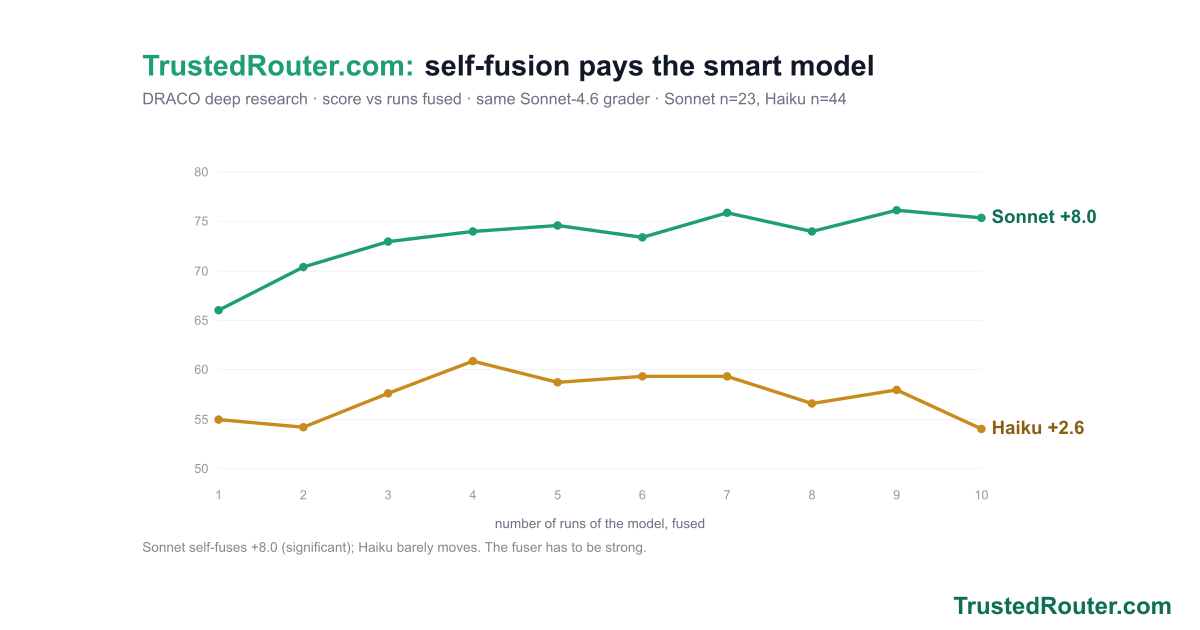
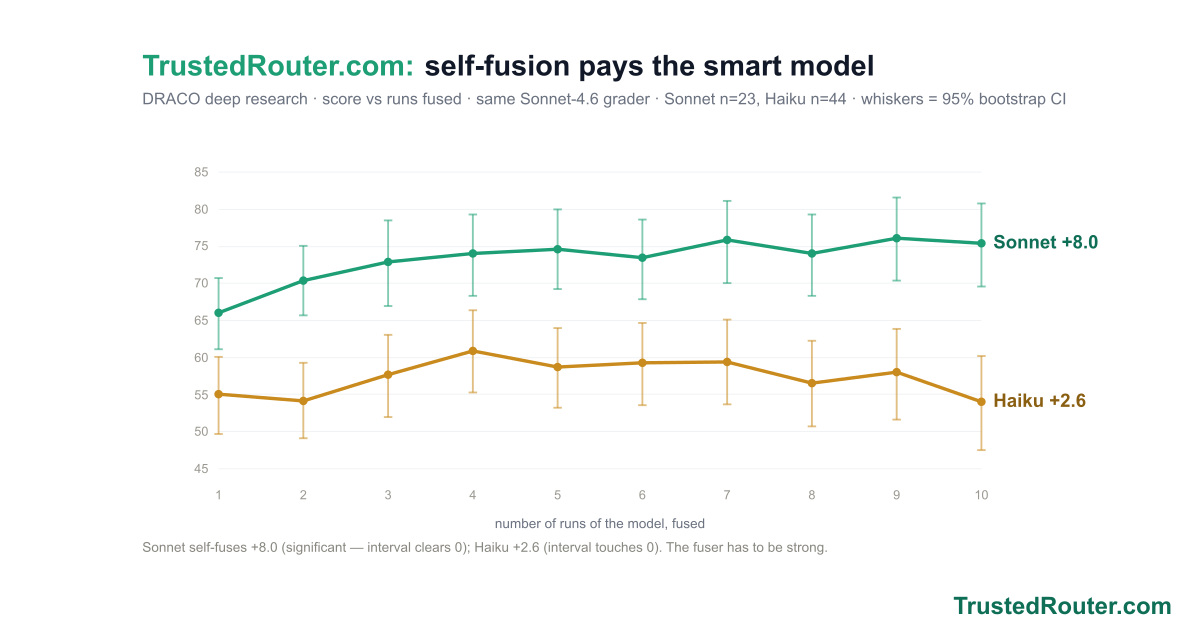
blog(self-fusion): add 95% bootstrap CI whiskers to the chart
Error bars on every point: Sonnet's interval clears 0 (significant +8.0), Haiku's
touches 0 (+2.6). Regenerated OG card. (Always show error bars.)

diff --git a/src/trusted_router/blog.py b/src/trusted_router/blog.py
@@ -39,7 +39,7 @@ BLOG_POSTS: tuple[BlogPost, ...] = (
         source_label="TrustedRouter-Fusion-Draco on GitHub",
         source_url="https://github.com/Lore-Hex/TrustedRouter-Fusion-Draco",
         body_html="""
-<svg xmlns="http://www.w3.org/2000/svg" viewBox="0 0 1200 630" width="100%" style="height:auto" font-family="Inter,Arial,sans-serif"><rect width="1200" height="630" fill="#ffffff"/><text x="60" y="56" font-size="34" font-weight="700"><tspan fill="#1d9e75">TrustedRouter.com:</tspan><tspan fill="#111827" dx="12">self-fusion pays the smart model</tspan></text><text x="60" y="90" font-size="19" fill="#6b7280">DRACO deep research · score vs runs fused · same Sonnet-4.6 grader · Sonnet n=23, Haiku n=44</text><line x1="150" y1="520" x2="1050" y2="520" stroke="#eef0f2"/><text x="138" y="525" font-size="15" text-anchor="end" fill="#9a9890">50</text><line x1="150" y1="462" x2="1050" y2="462" stroke="#eef0f2"/><text x="138" y="467" font-size="15" text-anchor="end" fill="#9a9890">55</text><line x1="150" y1="403" x2="1050" y2="403" stroke="#eef0f2"/><text x="138" y="408" font-size="15" text-anchor="end" fill="#9a9890">60</text><line x1="150" y1="345" x2="1050" y2="345" stroke="#eef0f2"/><text x="138" y="350" font-size="15" text-anchor="end" fill="#9a9890">65</text><line x1="150" y1="287" x2="1050" y2="287" stroke="#eef0f2"/><text x="138" y="292" font-size="15" text-anchor="end" fill="#9a9890">70</text><line x1="150" y1="228" x2="1050" y2="228" stroke="#eef0f2"/><text x="138" y="233" font-size="15" text-anchor="end" fill="#9a9890">75</text><line x1="150" y1="170" x2="1050" y2="170" stroke="#eef0f2"/><text x="138" y="175" font-size="15" text-anchor="end" fill="#9a9890">80</text><text x="150" y="556" font-size="15" text-anchor="middle" fill="#9a9890">1</text><text x="250" y="556" font-size="15" text-anchor="middle" fill="#9a9890">2</text><text x="350" y="556" font-size="15" text-anchor="middle" fill="#9a9890">3</text><text x="450" y="556" font-size="15" text-anchor="middle" fill="#9a9890">4</text><text x="550" y="556" font-size="15" text-anchor="middle" fill="#9a9890">5</text><text x="650" y="556" font-size="15" text-anchor="middle" fill="#9a9890">6</text><text x="750" y="556" font-size="15" text-anchor="middle" fill="#9a9890">7</text><text x="850" y="556" font-size="15" text-anchor="middle" fill="#9a9890">8</text><text x="950" y="556" font-size="15" text-anchor="middle" fill="#9a9890">9</text><text x="1050" y="556" font-size="15" text-anchor="middle" fill="#9a9890">10</text><text x="600" y="590" font-size="16" text-anchor="middle" fill="#6b7280">number of runs of the model, fused</text><polyline points="150,462 250,471 350,431 450,393 550,418 650,411 750,411 850,443 950,427 1050,473" fill="none" stroke="#c98a1e" stroke-width="4"/><circle cx="150" cy="462" r="5" fill="#c98a1e"/><circle cx="250" cy="471" r="5" fill="#c98a1e"/><circle cx="350" cy="431" r="5" fill="#c98a1e"/><circle cx="450" cy="393" r="5" fill="#c98a1e"/><circle cx="550" cy="418" r="5" fill="#c98a1e"/><circle cx="650" cy="411" r="5" fill="#c98a1e"/><circle cx="750" cy="411" r="5" fill="#c98a1e"/><circle cx="850" cy="443" r="5" fill="#c98a1e"/><circle cx="950" cy="427" r="5" fill="#c98a1e"/><circle cx="1050" cy="473" r="5" fill="#c98a1e"/><text x="1062" y="479" font-size="22" font-weight="700" fill="#8a5f12">Haiku +2.6</text><polyline points="150,333 250,282 350,252 450,240 550,233 650,247 750,218 850,240 950,215 1050,224" fill="none" stroke="#1d9e75" stroke-width="4"/><circle cx="150" cy="333" r="5" fill="#1d9e75"/><circle cx="250" cy="282" r="5" fill="#1d9e75"/><circle cx="350" cy="252" r="5" fill="#1d9e75"/><circle cx="450" cy="240" r="5" fill="#1d9e75"/><circle cx="550" cy="233" r="5" fill="#1d9e75"/><circle cx="650" cy="247" r="5" fill="#1d9e75"/><circle cx="750" cy="218" r="5" fill="#1d9e75"/><circle cx="850" cy="240" r="5" fill="#1d9e75"/><circle cx="950" cy="215" r="5" fill="#1d9e75"/><circle cx="1050" cy="224" r="5" fill="#1d9e75"/><text x="1062" y="230" font-size="22" font-weight="700" fill="#0f6e56">Sonnet +8.0</text><text x="60" y="618" font-size="16" fill="#888780">Sonnet self-fuses +8.0 (significant); Haiku barely moves. The fuser has to be strong.</text><text x="1188" y="621" text-anchor="end" font-size="21" font-weight="700" fill="#0f6e56">TrustedRouter.com</text></svg>
+<svg xmlns="http://www.w3.org/2000/svg" viewBox="0 0 1200 630" width="100%" style="height:auto" font-family="Inter,Arial,sans-serif"><rect width="1200" height="630" fill="#ffffff"/><text x="60" y="56" font-size="34" font-weight="700"><tspan fill="#1d9e75">TrustedRouter.com:</tspan><tspan fill="#111827" dx="12">self-fusion pays the smart model</tspan></text><text x="60" y="90" font-size="19" fill="#6b7280">DRACO deep research · score vs runs fused · same Sonnet-4.6 grader · Sonnet n=23, Haiku n=44 · whiskers = 95% bootstrap CI</text><line x1="150" y1="520" x2="1050" y2="520" stroke="#eef0f2"/><text x="138" y="525" font-size="15" text-anchor="end" fill="#9a9890">45</text><line x1="150" y1="476" x2="1050" y2="476" stroke="#eef0f2"/><text x="138" y="481" font-size="15" text-anchor="end" fill="#9a9890">50</text><line x1="150" y1="432" x2="1050" y2="432" stroke="#eef0f2"/><text x="138" y="438" font-size="15" text-anchor="end" fill="#9a9890">55</text><line x1="150" y1="389" x2="1050" y2="389" stroke="#eef0f2"/><text x="138" y="394" font-size="15" text-anchor="end" fill="#9a9890">60</text><line x1="150" y1="345" x2="1050" y2="345" stroke="#eef0f2"/><text x="138" y="350" font-size="15" text-anchor="end" fill="#9a9890">65</text><line x1="150" y1="301" x2="1050" y2="301" stroke="#eef0f2"/><text x="138" y="306" font-size="15" text-anchor="end" fill="#9a9890">70</text><line x1="150" y1="258" x2="1050" y2="258" stroke="#eef0f2"/><text x="138" y="262" font-size="15" text-anchor="end" fill="#9a9890">75</text><line x1="150" y1="214" x2="1050" y2="214" stroke="#eef0f2"/><text x="138" y="219" font-size="15" text-anchor="end" fill="#9a9890">80</text><line x1="150" y1="170" x2="1050" y2="170" stroke="#eef0f2"/><text x="138" y="175" font-size="15" text-anchor="end" fill="#9a9890">85</text><text x="150" y="556" font-size="15" text-anchor="middle" fill="#9a9890">1</text><text x="250" y="556" font-size="15" text-anchor="middle" fill="#9a9890">2</text><text x="350" y="556" font-size="15" text-anchor="middle" fill="#9a9890">3</text><text x="450" y="556" font-size="15" text-anchor="middle" fill="#9a9890">4</text><text x="550" y="556" font-size="15" text-anchor="middle" fill="#9a9890">5</text><text x="650" y="556" font-size="15" text-anchor="middle" fill="#9a9890">6</text><text x="750" y="556" font-size="15" text-anchor="middle" fill="#9a9890">7</text><text x="850" y="556" font-size="15" text-anchor="middle" fill="#9a9890">8</text><text x="950" y="556" font-size="15" text-anchor="middle" fill="#9a9890">9</text><text x="1050" y="556" font-size="15" text-anchor="middle" fill="#9a9890">10</text><text x="600" y="590" font-size="16" text-anchor="middle" fill="#6b7280">number of runs of the model, fused</text><line x1="150" y1="479" x2="150" y2="388" stroke="#c98a1e" stroke-width="2.2" stroke-opacity="0.55"/><line x1="145" y1="479" x2="155" y2="479" stroke="#c98a1e" stroke-width="2.2" stroke-opacity="0.55"/><line x1="145" y1="388" x2="155" y2="388" stroke="#c98a1e" stroke-width="2.2" stroke-opacity="0.55"/><line x1="250" y1="484" x2="250" y2="395" stroke="#c98a1e" stroke-width="2.2" stroke-opacity="0.55"/><line x1="245" y1="484" x2="255" y2="484" stroke="#c98a1e" stroke-width="2.2" stroke-opacity="0.55"/><line x1="245" y1="395" x2="255" y2="395" stroke="#c98a1e" stroke-width="2.2" stroke-opacity="0.55"/><line x1="350" y1="459" x2="350" y2="362" stroke="#c98a1e" stroke-width="2.2" stroke-opacity="0.55"/><line x1="345" y1="459" x2="355" y2="459" stroke="#c98a1e" stroke-width="2.2" stroke-opacity="0.55"/><line x1="345" y1="362" x2="355" y2="362" stroke="#c98a1e" stroke-width="2.2" stroke-opacity="0.55"/><line x1="450" y1="430" x2="450" y2="333" stroke="#c98a1e" stroke-width="2.2" stroke-opacity="0.55"/><line x1="445" y1="430" x2="455" y2="430" stroke="#c98a1e" stroke-width="2.2" stroke-opacity="0.55"/><line x1="445" y1="333" x2="455" y2="333" stroke="#c98a1e" stroke-width="2.2" stroke-opacity="0.55"/><line x1="550" y1="448" x2="550" y2="354" stroke="#c98a1e" stroke-width="2.2" stroke-opacity="0.55"/><line x1="545" y1="448" x2="555" y2="448" stroke="#c98a1e" stroke-width="2.2" stroke-opacity="0.55"/><line x1="545" y1="354" x2="555" y2="354" stroke="#c98a1e" stroke-width="2.2" stroke-opacity="0.55"/><line x1="650" y1="445" x2="650" y2="348" stroke="#c98a1e" stroke-width="2.2" stroke-opacity="0.55"/><line x1="645" y1="445" x2="655" y2="445" stroke="#c98a1e" stroke-width="2.2" stroke-opacity="0.55"/><line x1="645" y1="348" x2="655" y2="348" stroke="#c98a1e" stroke-width="2.2" stroke-opacity="0.55"/><line x1="750" y1="444" x2="750" y2="344" stroke="#c98a1e" stroke-width="2.2" stroke-opacity="0.55"/><line x1="745" y1="444" x2="755" y2="444" stroke="#c98a1e" stroke-width="2.2" stroke-opacity="0.55"/><line x1="745" y1="344" x2="755" y2="344" stroke="#c98a1e" stroke-width="2.2" stroke-opacity="0.55"/><line x1="850" y1="470" x2="850" y2="369" stroke="#c98a1e" stroke-width="2.2" stroke-opacity="0.55"/><line x1="845" y1="470" x2="855" y2="470" stroke="#c98a1e" stroke-width="2.2" stroke-opacity="0.55"/><line x1="845" y1="369" x2="855" y2="369" stroke="#c98a1e" stroke-width="2.2" stroke-opacity="0.55"/><line x1="950" y1="462" x2="950" y2="355" stroke="#c98a1e" stroke-width="2.2" stroke-opacity="0.55"/><line x1="945" y1="462" x2="955" y2="462" stroke="#c98a1e" stroke-width="2.2" stroke-opacity="0.55"/><line x1="945" y1="355" x2="955" y2="355" stroke="#c98a1e" stroke-width="2.2" stroke-opacity="0.55"/><line x1="1050" y1="498" x2="1050" y2="387" stroke="#c98a1e" stroke-width="2.2" stroke-opacity="0.55"/><line x1="1045" y1="498" x2="1055" y2="498" stroke="#c98a1e" stroke-width="2.2" stroke-opacity="0.55"/><line x1="1045" y1="387" x2="1055" y2="387" stroke="#c98a1e" stroke-width="2.2" stroke-opacity="0.55"/><polyline points="150,432 250,440 350,409 450,381 550,400 650,395 750,394 850,419 950,406 1050,441" fill="none" stroke="#c98a1e" stroke-width="4"/><circle cx="150" cy="432" r="5" fill="#c98a1e"/><circle cx="250" cy="440" r="5" fill="#c98a1e"/><circle cx="350" cy="409" r="5" fill="#c98a1e"/><circle cx="450" cy="381" r="5" fill="#c98a1e"/><circle cx="550" cy="400" r="5" fill="#c98a1e"/><circle cx="650" cy="395" r="5" fill="#c98a1e"/><circle cx="750" cy="394" r="5" fill="#c98a1e"/><circle cx="850" cy="419" r="5" fill="#c98a1e"/><circle cx="950" cy="406" r="5" fill="#c98a1e"/><circle cx="1050" cy="441" r="5" fill="#c98a1e"/><text x="1064" y="447" font-size="22" font-weight="700" fill="#8a5f12">Haiku +2.6</text><line x1="150" y1="379" x2="150" y2="295" stroke="#1d9e75" stroke-width="2.2" stroke-opacity="0.55"/><line x1="145" y1="379" x2="155" y2="379" stroke="#1d9e75" stroke-width="2.2" stroke-opacity="0.55"/><line x1="145" y1="295" x2="155" y2="295" stroke="#1d9e75" stroke-width="2.2" stroke-opacity="0.55"/><line x1="250" y1="339" x2="250" y2="257" stroke="#1d9e75" stroke-width="2.2" stroke-opacity="0.55"/><line x1="245" y1="339" x2="255" y2="339" stroke="#1d9e75" stroke-width="2.2" stroke-opacity="0.55"/><line x1="245" y1="257" x2="255" y2="257" stroke="#1d9e75" stroke-width="2.2" stroke-opacity="0.55"/><line x1="350" y1="328" x2="350" y2="227" stroke="#1d9e75" stroke-width="2.2" stroke-opacity="0.55"/><line x1="345" y1="328" x2="355" y2="328" stroke="#1d9e75" stroke-width="2.2" stroke-opacity="0.55"/><line x1="345" y1="227" x2="355" y2="227" stroke="#1d9e75" stroke-width="2.2" stroke-opacity="0.55"/><line x1="450" y1="316" x2="450" y2="220" stroke="#1d9e75" stroke-width="2.2" stroke-opacity="0.55"/><line x1="445" y1="316" x2="455" y2="316" stroke="#1d9e75" stroke-width="2.2" stroke-opacity="0.55"/><line x1="445" y1="220" x2="455" y2="220" stroke="#1d9e75" stroke-width="2.2" stroke-opacity="0.55"/><line x1="550" y1="308" x2="550" y2="214" stroke="#1d9e75" stroke-width="2.2" stroke-opacity="0.55"/><line x1="545" y1="308" x2="555" y2="308" stroke="#1d9e75" stroke-width="2.2" stroke-opacity="0.55"/><line x1="545" y1="214" x2="555" y2="214" stroke="#1d9e75" stroke-width="2.2" stroke-opacity="0.55"/><line x1="650" y1="320" x2="650" y2="226" stroke="#1d9e75" stroke-width="2.2" stroke-opacity="0.55"/><line x1="645" y1="320" x2="655" y2="320" stroke="#1d9e75" stroke-width="2.2" stroke-opacity="0.55"/><line x1="645" y1="226" x2="655" y2="226" stroke="#1d9e75" stroke-width="2.2" stroke-opacity="0.55"/><line x1="750" y1="301" x2="750" y2="204" stroke="#1d9e75" stroke-width="2.2" stroke-opacity="0.55"/><line x1="745" y1="301" x2="755" y2="301" stroke="#1d9e75" stroke-width="2.2" stroke-opacity="0.55"/><line x1="745" y1="204" x2="755" y2="204" stroke="#1d9e75" stroke-width="2.2" stroke-opacity="0.55"/><line x1="850" y1="316" x2="850" y2="220" stroke="#1d9e75" stroke-width="2.2" stroke-opacity="0.55"/><line x1="845" y1="316" x2="855" y2="316" stroke="#1d9e75" stroke-width="2.2" stroke-opacity="0.55"/><line x1="845" y1="220" x2="855" y2="220" stroke="#1d9e75" stroke-width="2.2" stroke-opacity="0.55"/><line x1="950" y1="298" x2="950" y2="200" stroke="#1d9e75" stroke-width="2.2" stroke-opacity="0.55"/><line x1="945" y1="298" x2="955" y2="298" stroke="#1d9e75" stroke-width="2.2" stroke-opacity="0.55"/><line x1="945" y1="200" x2="955" y2="200" stroke="#1d9e75" stroke-width="2.2" stroke-opacity="0.55"/><line x1="1050" y1="305" x2="1050" y2="207" stroke="#1d9e75" stroke-width="2.2" stroke-opacity="0.55"/><line x1="1045" y1="305" x2="1055" y2="305" stroke="#1d9e75" stroke-width="2.2" stroke-opacity="0.55"/><line x1="1045" y1="207" x2="1055" y2="207" stroke="#1d9e75" stroke-width="2.2" stroke-opacity="0.55"/><polyline points="150,336 250,298 350,276 450,266 550,261 650,271 750,250 850,266 950,248 1050,254" fill="none" stroke="#1d9e75" stroke-width="4"/><circle cx="150" cy="336" r="5" fill="#1d9e75"/><circle cx="250" cy="298" r="5" fill="#1d9e75"/><circle cx="350" cy="276" r="5" fill="#1d9e75"/><circle cx="450" cy="266" r="5" fill="#1d9e75"/><circle cx="550" cy="261" r="5" fill="#1d9e75"/><circle cx="650" cy="271" r="5" fill="#1d9e75"/><circle cx="750" cy="250" r="5" fill="#1d9e75"/><circle cx="850" cy="266" r="5" fill="#1d9e75"/><circle cx="950" cy="248" r="5" fill="#1d9e75"/><circle cx="1050" cy="254" r="5" fill="#1d9e75"/><text x="1064" y="260" font-size="22" font-weight="700" fill="#0f6e56">Sonnet +8.0</text><text x="60" y="618" font-size="16" fill="#888780">Sonnet self-fuses +8.0 (significant — interval clears 0); Haiku +2.6 (interval touches 0). The fuser has to be strong.</text><text x="1188" y="621" text-anchor="end" font-size="21" font-weight="700" fill="#0f6e56">TrustedRouter.com</text></svg>
 <p>Fusion works now, and it works even when every model in the panel is the same model. Run a strong model ten times on a hard question, have it fuse its own ten answers, and the score goes up for real. The catch is the word <em>strong</em>: a cheap model barely moves. Last month <a href="https://openrouter.ai/blog/announcements/fusion-beats-frontier/">OpenRouter</a> showed the cheap-committee version of the trick and we <a href="/blog/ten-cheap-runs-beat-the-frontier">reproduced it</a> &mdash; <span class="mono">MiniMax-M3</span> self-fused from 66.2 to 69.4 on <a href="/blog/fusion-evals-open-source">DRACO</a> deep research. What was left open is how far down the price curve it survives. So we ran self-fusion with <a href="https://www.anthropic.com/claude"><span class="mono">Claude Haiku 4.5</span></a> doing its own web research, judging, and synthesizing, then <span class="mono">Sonnet 4.6</span> doing all three, every answer graded by <span class="mono">Sonnet 4.6</span>.</p>
 <p><strong>Fusing helps the smart model a lot and the cheap one a little.</strong> <span class="mono">Sonnet</span> self-fusion climbs from 66 solo to about 74, a gain of eight points that holds up as significant (95% interval +4.6 to +11.2, across 23 tasks). <span class="mono">Haiku</span> self-fusion, across 44 tasks, moves from 55 to about 58 &mdash; a gain of 2.6 points that looks real but does not quite clear the bar (&minus;0.3 to +5.4, about 96% of the bootstrap positive). Same recipe, same grader; the payoff tracks how smart the model doing the fusing is.</p>
 <table class="data-table"><tr><th>self-fusion</th><th>solo</th><th>fused</th><th>gain</th><th>grader</th></tr><tr><td><span class="mono">MiniMax-M3</span></td><td>66.2</td><td>69.4</td><td>+3.2</td><td><span class="mono">gemini-3.1-pro</span></td></tr><tr><td><span class="mono">Sonnet 4.6</span></td><td>66</td><td><strong>~74</strong></td><td><strong>+8.0</strong></td><td><span class="mono">Sonnet-4.6</span></td></tr><tr><td><span class="mono">Haiku 4.5</span></td><td>55</td><td>~58</td><td>+2.6</td><td><span class="mono">Sonnet-4.6</span></td></tr></table>